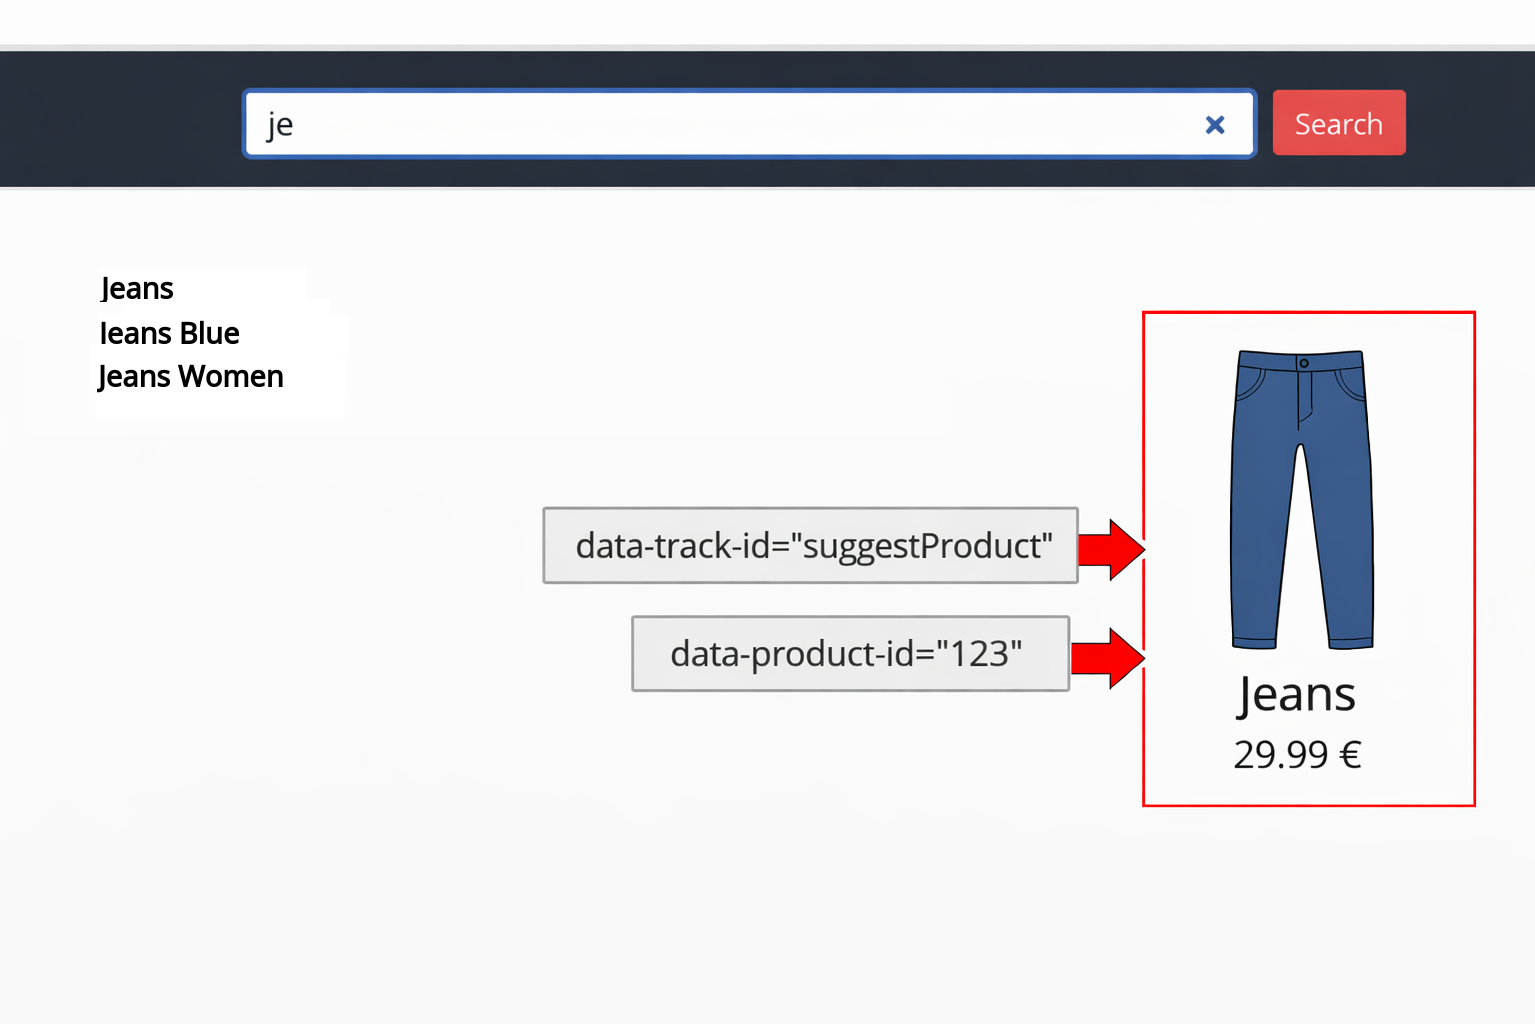
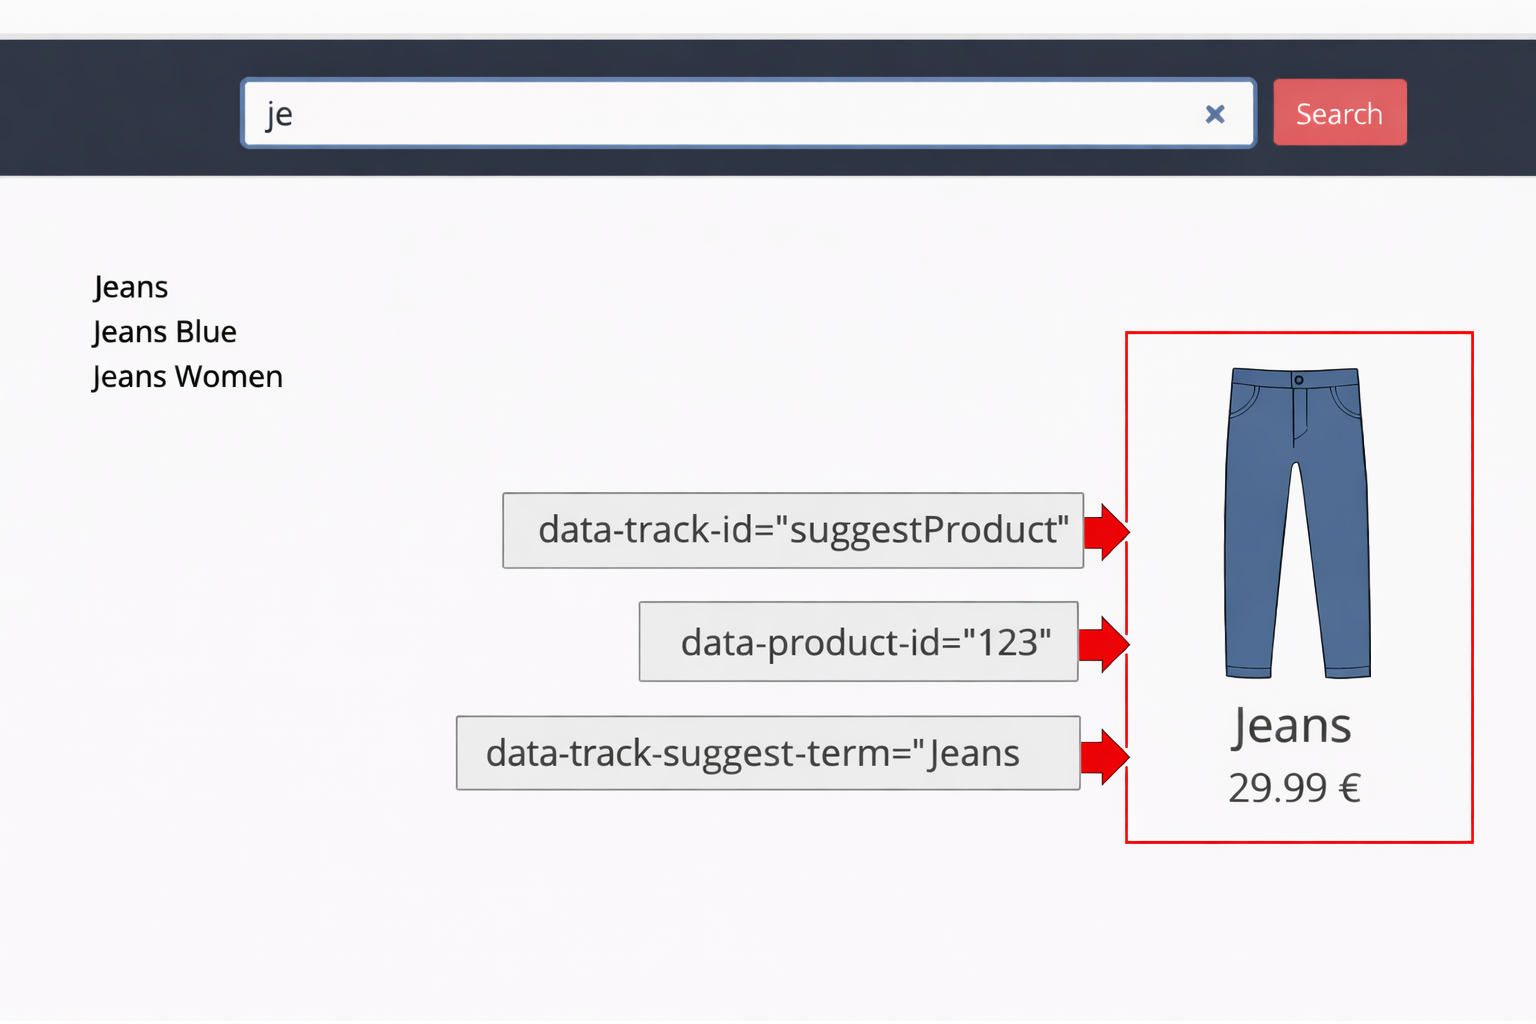
add missing suggestSearchTerm for product tracking

diff --git a/docs/search-collector.rst b/docs/search-collector.rst
@@ -161,6 +161,7 @@ If search terms are proposed to the shop user while typing, each element contain
 Product Suggestions
 ----------------------------
 If products are proposed to the shop user while typing, each product element should be annotated with the ``data-track-id="suggestProduct"`` attribute.
+If the products are returned for a specific search term, that search term should be set as the value of the ``data-track-suggest-term`` attribute on each product element.
 
 |suggestProduct|
 
@@ -174,14 +175,16 @@ If products are proposed to the shop user while typing, each product element sho
      - suggestProduct
    * - data-product-id
      - {mainId}
+   * - data-track-suggest-term
+     - {suggestSearchTerm}
 
 **Example**
 
 .. code-block:: html
 
     ...
-    <div data-track-id="suggestProduct" data-product-id="abc">Product Name</div>
-    <div data-track-id="suggestProduct" data-product-id="def">Another Product</div>
+    <div data-track-id="suggestProduct" data-product-id="abc" data-track-suggest-term="Jeans">Product Name</div>
+    <div data-track-id="suggestProduct" data-product-id="def" data-track-suggest-term="Jeans">Another Product</div>
     ...
 
 
